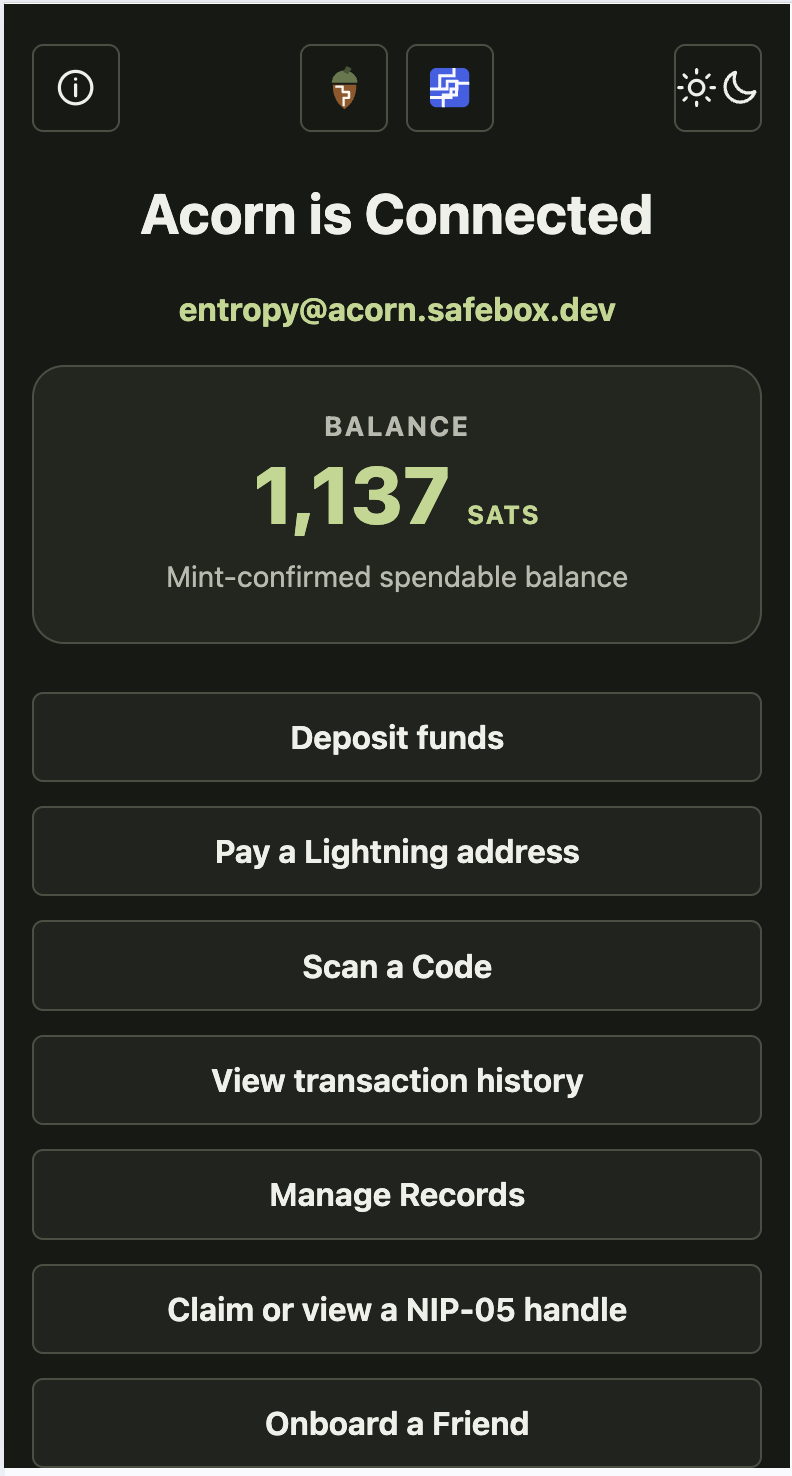
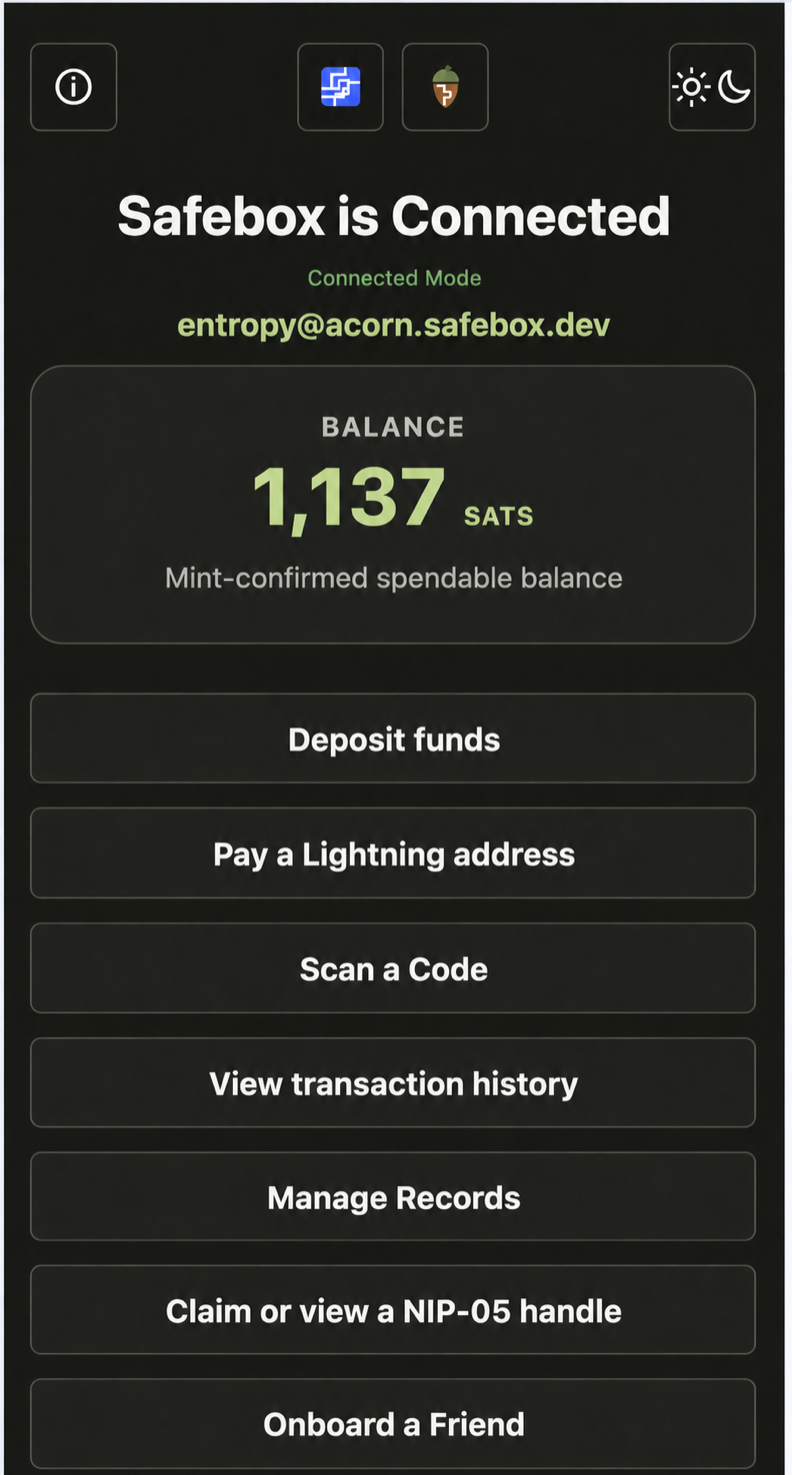
update UI and docs

diff --git a/app/static/styles.css b/app/static/styles.css
@@ -38,6 +38,7 @@ html { min-height: 100%; -webkit-text-size-adjust: 100%; background: var(--page)
 body { font-family: system-ui, sans-serif; max-width: 42rem; margin: 4rem auto; padding: 0 1rem; line-height: 1.5; overflow-wrap: break-word; background: var(--page); color: var(--text); }
 h1, h2 { line-height: 1.2; }
 .wallet-headline { text-align: center; }
+.continuity-mode { margin: -.75rem 0 1.25rem; color: var(--link); font-size: .9rem; font-weight: 700; letter-spacing: .04em; text-align: center; text-transform: uppercase; }
 img, svg { max-width: 100%; }
 a { color: var(--link); }
 .nav-button { display: inline-flex; box-sizing: border-box; min-height: 2.75rem; align-items: center; justify-content: center; padding: .55rem .85rem; border: 1px solid var(--border); border-radius: .45rem; background: var(--control); color: var(--text); font-weight: 650; text-align: center; text-decoration: none; }

diff --git a/website/stylesheets/extra.css b/website/stylesheets/extra.css
@@ -177,6 +177,26 @@
   font-size: 1.05rem;
 }
 
+.safebox-continuity-figure {
+  margin: 1.5rem 0 1.75rem;
+}
+
+.safebox-continuity-figure img {
+  display: block;
+  width: 100%;
+  height: auto;
+  border-radius: 0.9rem;
+}
+
+.safebox-continuity-figure figcaption {
+  max-width: 42rem;
+  margin: 0.75rem auto 0;
+  color: var(--md-default-fg-color--light);
+  font-size: 0.78rem;
+  line-height: 1.55;
+  text-align: center;
+}
+
 .md-typeset blockquote {
   border-left-color: var(--safebox-copper);
 }
@@ -224,5 +244,16 @@
 
   .safebox-brand-mark {
     margin: 0 auto;
+  }
+
+  .md-typeset .md-button {
+    display: block;
+    width: 100%;
+    margin: 0.45rem 0 0;
+    text-align: center;
+  }
+
+  .md-typeset .md-button + .md-button {
+    margin-top: 0.75rem;
   }
 }

diff --git a/app/templates/wallet.html b/app/templates/wallet.html
@@ -1,5 +1,6 @@
 {% extends "base.html" %}
 {% block content %}
+<p class="continuity-mode">Connected Mode</p>
 {% if lightning_lnurl %}
 <details class="wallet-address">
   <summary>{{ nip05_address | lower }}</summary>

diff --git a/tests/test_app.py b/tests/test_app.py
@@ -1020,7 +1020,8 @@ def test_wallet_navigation_links_are_presented_as_action_buttons(tmp_path) -> No
 
     assert response.status_code == 200
     assert '<nav class="wallet-actions" aria-label="Wallet actions">' in response.text
-    assert '<h1 class="wallet-headline">Acorn is Connected</h1>' in response.text
+    assert '<h1 class="wallet-headline">Safebox is Connected</h1>' in response.text
+    assert '<p class="continuity-mode">Connected Mode</p>' in response.text
     assert 'class="page-navigation"' not in response.text
     assert '<a href="/deposit">Deposit funds</a>' in response.text
     assert '<a href="/records">Manage Records</a>' in response.text

diff --git a/app/main.py b/app/main.py
@@ -1793,7 +1793,7 @@ def create_app(settings: Settings | None = None) -> FastAPI:
         )
         return render_template(
             "wallet.html",
-            title="Acorn is Connected",
+            title="Safebox is Connected",
             headline_class="wallet-headline",
             npub=acorn.pubkey_bech32,
             home_relay=acorn.home_relay,

diff --git a/website/why-safebox-web.md b/website/why-safebox-web.md
@@ -42,13 +42,40 @@ Grove on the same small appliance.
 
 ## Practical continuity
 
-The long-term goal is simple:
+For most people, the starting point is ordinary: they open Safebox Web through
+a web-connected service, check a balance, receive value, store a record, or
+present evidence. The experience should feel familiar and convenient.
+
+The important difference is underneath. The app should not be the only place
+the wallet can live. If a hosted service is unavailable, a provider changes
+terms, or the wider internet is down, the same Acorn-controlled state should
+have a local continuity path.
+
+In that situation, Safebox Web can fall back to local services:
+
+- a local Acorn execution environment for keys, funds, records, and recovery;
+- a local Spurline relay for signed events and wallet state;
+- a local Grove service for protected original records and larger blobs; and
+- later, nearby community infrastructure or mesh transport when wider
+  connectivity is unavailable.
+
+This is where Lockbox enters the product story. Lockbox is the appliance-like
+form of that local fallback: a small local home for the same components people
+may normally reach through a web-connected service.
+
+<figure class="safebox-continuity-figure" markdown>
+![Concept illustration of a phone running Safebox Web beside a compact Lockbox-style Safebox appliance with an integrated keypad, NFC tap point, short LoRa-style antenna, and physical Wi-Fi control, ready beside a small emergency bag, passports, keys, and an emergency folder](assets/images/lockbox-appliance-concept.jpg)
+<figcaption>Safebox Web is the user app. Lockbox lets the same app work across different continuity modes: useful in ordinary life, and ready to come with the household or community when circumstances change.</figcaption>
+</figure>
+
+The long-term goal remains simple:
 
 > Lockbox preserves local authority, continuity, and evidence.
 
-Safebox Web is the part a person touches. Acorn is the portable wallet and
+Safebox Web is the app a person touches. Acorn is the portable wallet and
 record state underneath it. Spurline preserves local relay events. Grove
-preserves encrypted blob availability. Together they form a practical
-continuity stack.
+preserves encrypted blob availability. Lockbox brings those pieces together so
+the user has a web-enabled experience in ordinary conditions and a local-first
+fallback when continuity matters.
 
 [Read the records-first architecture](radical-rewrite-of-architecture.md){ .md-button .md-button--primary }

diff --git a/website/product-architecture.md b/website/product-architecture.md
@@ -32,8 +32,8 @@ without making one hosted service permanent.
 
 ### Safebox Web
 
-The browser-facing application for onboarding, records, payments, handles,
-sharing, and presentation workflows.
+The user app for onboarding, records, payments, handles, sharing, and
+presentation workflows.
 
 </article>
 
@@ -78,9 +78,8 @@ events, control history, and verifier policy.
 ## Toward Lockbox
 
 Lockbox is the future appliance-like product profile for running this family
-locally. The initial target is a Raspberry Pi 4, with future FreeBSD deployment
-work and hardware-backed trust boundaries such as a keypad and TROPIC01 HSM
-under consideration.
+locally. The initial target is FreeBSD on a Raspberry Pi 4, with
+hardware-backed trust boundaries such as a keypad and TROPIC01 HSM.
 
 In that model:
 
@@ -91,6 +90,12 @@ In that model:
 - OpenETR provides signed transferable-record evidence; and
 - external services remain useful, but not always required for local
   continuity.
+
+Safebox Web should be able to describe this in plain continuity modes:
+**Connected Mode**, **Local Mode**, **Mobile Mode**, and **Community Mode**.
+The current app can start with Connected Mode and later determine the active
+mode from service reachability, local pairing, bridge state, and community
+mesh participation.
 
 ## Related repositories
 

diff --git a/website/index.md b/website/index.md
@@ -14,7 +14,7 @@ description: A local-first wallet app for individuals and communities.
 <figure class="safebox-phone" markdown>
   <div class="safebox-phone-frame">
     <span class="safebox-phone-speaker" aria-hidden="true"></span>
-    <img src="assets/images/safebox-phone-app.png" alt="Safebox Web wallet screen shown as a mobile app">
+    <img src="assets/images/safebox-phone-app.png" alt="Safebox Web mobile app screen showing Safebox is Connected in Connected Mode">
   </div>
 </figure>
 
